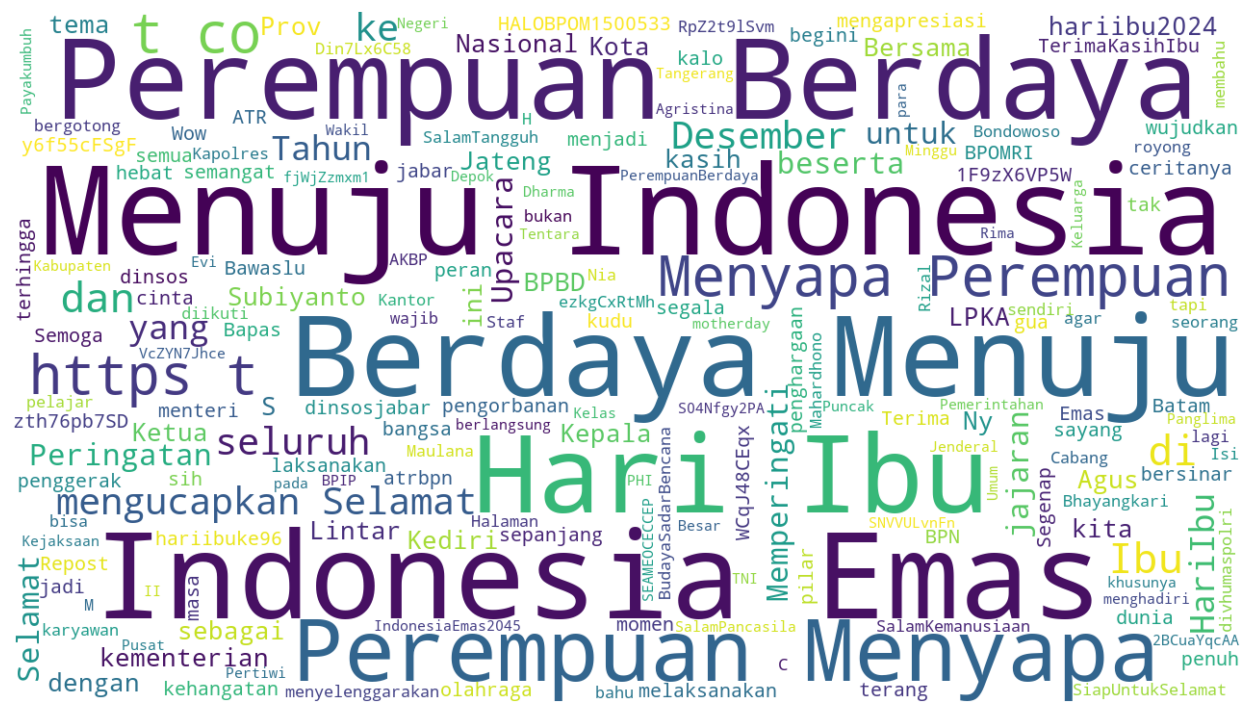
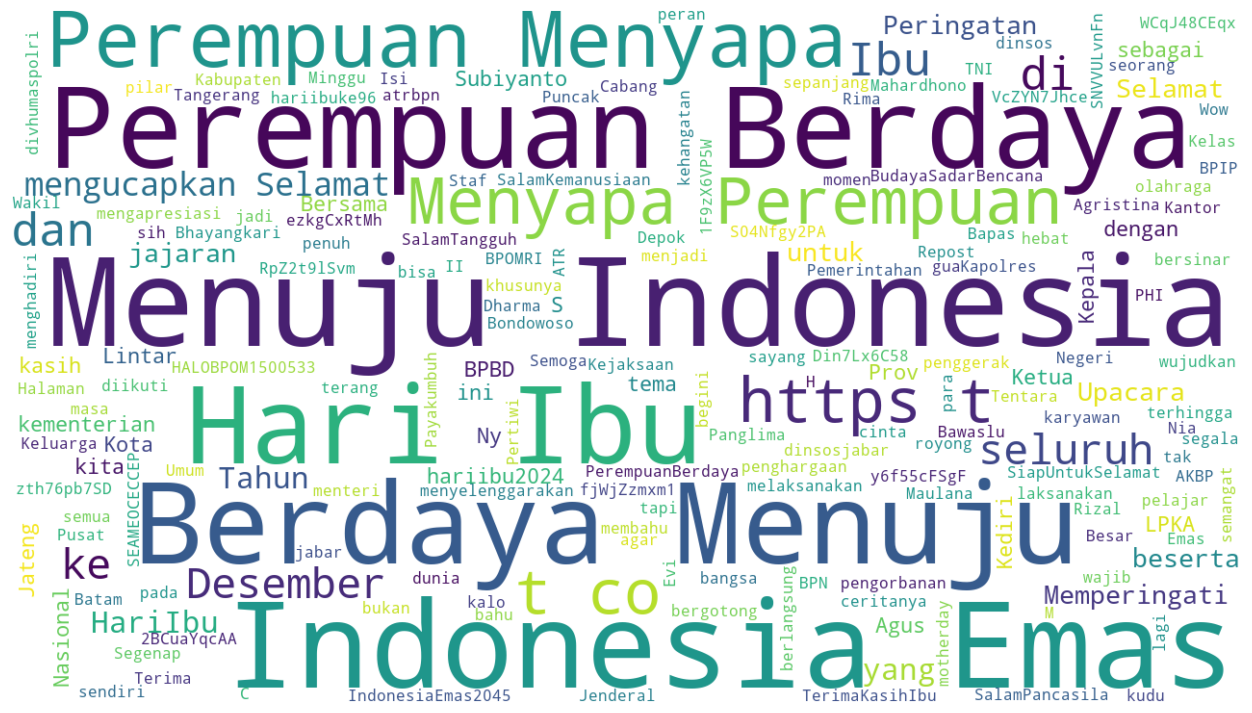
clean and normalized data

diff --git a/templates/12_normalized_dataset.html b/templates/12_normalized_dataset.html
@@ -1,14 +1,12 @@
-{% extends 'base.html' %}
-{% block content %}
+{% extends 'base.html' %} {% block content %}
 <div class="container-xxl flex-grow-1 container-p-y">
 	<div class="fw-bold mb-4">
 		<span class="text-muted fw-light">DataCraft / </span>
-		<span class="text-muted fw-light">Pra-Pemrosesan Data / </span>
+		<span class="text-muted fw-light">Eksplorasi Data / </span>
 		<span class="color-custom-secondary">{{ title }}</span>
 	</div>
-	{% with messages = get_flashed_messages(with_categories=true) %}
-  {% if messages %}
-  {% for category, message in messages %}
+	{% with messages = get_flashed_messages(with_categories=true) %} {% if
+	messages %} {% for category, message in messages %}
 	<div
 		class="alert alert-{{ category }} alert-dismissible fade show"
 		role="alert">
@@ -19,9 +17,7 @@
 			data-bs-dismiss="alert"
 			aria-label="Close"></button>
 	</div>
-	{% endfor %}
-  {% endif %}
-  {% endwith %}
+	{% endfor %} {% endif %} {% endwith %}
 	<div class="row">
 		<div class="col-12 mb-4 order-0">
 			<!-- Informasi Dataset -->
@@ -31,8 +27,6 @@
 					<ul>
 						<li><strong>Nama File:</strong> {{ selected_file }}</li>
 						<li><strong>Dimensi Dataset:</strong> {{ data_shape }}</li>
-						<li><strong>Jumlah Duplikat:</strong> {{ duplicate_count }}</li>
-						<li><strong>Jumlah Nilai Kosong:</strong> {{ null_count }}</li>
 					</ul>
 				</div>
 			</div>
@@ -46,16 +40,18 @@
 			<div class="card mb-4">
 				<h5 class="card-header">Statistik Deskriptif</h5>
 				<div class="card-body">
-					<div class="table-responsive">{{ data_description | safe }}</div>
+					<div class="table table-responsive">
+						{{ data_description | safe }}
+					</div>
 				</div>
 			</div>
 			<!-- Visualisasi -->
 			<div class="card mb-4">
-				<h5 class="card-header">Distribusi Panjang Cleaned Tweet</h5>
+				<h5 class="card-header">Distribusi Panjang Normalisasi Tweet</h5>
 				<div class="card-body">
 					<img
 						src="{{ chart_path }}"
-						alt="Distribusi Panjang Cleaned Tweet"
+						alt="Distribusi Panjang Normalisasi Tweet"
 						class="img-fluid"
 						draggable="false" />
 				</div>
@@ -65,12 +61,12 @@
 				<div class="card-body">
 					<img
 						src="{{ wordcloud_path }}"
-						alt="WordCloud Cleaned Tweet"
+						alt="WordCloud"
 						class="img-fluid"
 						draggable="false" />
 				</div>
 			</div>
-			<!-- Tombol Navigasi -->
+			<!-- Download dan Navigasi -->
 			<div class="card">
 				<div class="card-body">
 					<div class="d-flex justify-content-between align-items-center">
@@ -82,19 +78,16 @@
 								&nbsp; Buat Dataset
 							</a>
 						</div>
-						<div>
+						<div class="">
 							<a
 								href="{{ download_link }}"
-								class="btn btn-success btn-sm"
-								download>
-								<i class="bx bx-download"></i>
-								&nbsp; Unduh Data
+								class="btn btn-success btn-sm">
+								<i class="bx bx-download"></i>&nbsp; Unduh Data
 							</a>
 							<a
-								href="{{ url_for('normalize_dataset') }}"
-								class="btn btn-primary btn-sm">
-								<i class="bx bx-cog"></i>
-								&nbsp; Normalisasi Data
+								href="{{ url_for('details_dataset') }}"
+								class="btn btn-warning btn-sm">
+								<i class="bx bx-arrow-back"></i>&nbsp; Kembali ke Detail Dataset
 							</a>
 						</div>
 					</div>

diff --git a/templates/partials/sidebar.html b/templates/partials/sidebar.html
@@ -65,7 +65,7 @@
 			</ul>
 		</li>
 		<!-- Pra-Pemrosesan -->
-		<li class="menu-item {% if url_for('pra_pemrosesan') in request.path or url_for('clean_dataset') in request.path %}active open{% endif %}">
+		<li class="menu-item {% if url_for('clean_dataset') in request.path or url_for('normalize_dataset') in request.path %}active open{% endif %}">
 			<a href="javascript:void(0);" class="menu-link menu-toggle">
 				<i class="menu-icon tf-icons bx bx-wrench"></i>
 				<div data-i18n="Pra-Pemrosesan">Pra-Pemrosesan</div>
@@ -77,8 +77,8 @@
 						<div data-i18n="Pembersihdan Data">Pembersihdan Data</div>
 					</a>
 				</li>
-				<li class="menu-item {% if request.path == url_for('pra_pemrosesan') %}active{% endif %}">
-					<a href="{{ url_for('pra_pemrosesan') }}" class="menu-link">
+				<li class="menu-item {% if request.path == url_for('normalize_dataset') %}active{% endif %}">
+					<a href="{{ url_for('normalize_dataset') }}" class="menu-link">
 						<div data-i18n="Normalisasi Data">Normalisasi Data</div>
 					</a>
 				</li>

diff --git a/app.py b/app.py
@@ -105,7 +105,7 @@ def create_dataset():
         safe_keyword = re.sub(r'[^\w\s]', '_', keyword)  # Ganti karakter khusus jadi '_'
         safe_keyword = re.sub(r'\s+', '_', safe_keyword.strip())  # Hilangkan spasi berlebih
         timestamp = datetime.now().strftime("%Y%m%d%H%M%S")
-        filename = f"{safe_keyword}_{timestamp}.csv"
+        filename = f"dataset_0_{safe_keyword}_{timestamp}.csv"
         file_path = os.path.join(save_dir, filename)
 
         # Pindah ke direktori kerja
@@ -141,20 +141,22 @@ def create_dataset():
 # Route untuk mengunduh file yang sudah dibuat
 @app.route('/download/<filename>')
 def download_file(filename):
-    if url_for('create_dataset'):
-        try:
-            download_dir = os.path.join(os.getcwd(), "data", "tweets-data")
-            return send_from_directory(download_dir, filename, as_attachment=True)
-        except Exception as e:
-            flash("Gagal mengunduh file.", "error")
-            return redirect(url_for('create_dataset'))
-    elif url_for('clean_dataset'):
-        try:
-            download_dir = os.path.join(os.getcwd(), "data", "processed")
-            return send_from_directory(download_dir, filename, as_attachment=True)
-        except Exception as e:
-            flash("Gagal mengunduh file.", "error")
-            return redirect(url_for('clean_dataset'))
+    # Tentukan direktori berdasarkan nama file
+    if filename.startswith("dataset_0"):
+        download_dir = os.path.join(os.getcwd(), "data", "tweets-data")
+    elif filename.startswith("dataset_1"):
+        download_dir = os.path.join(os.getcwd(), "data", "processed")
+    elif filename.startswith("dataset_2"):
+        download_dir = os.path.join(os.getcwd(), "data", "processed")
+    else:
+        flash("File tidak valid untuk diunduh.", "error")
+        return redirect(url_for('clean_dataset'))
+
+    try:
+        return send_from_directory(download_dir, filename, as_attachment=True)
+    except Exception as e:
+        flash("Gagal mengunduh file.", "error")
+        return redirect(request.referrer)
 
 # Route untuk halaman Unggah Dataset
 @app.route('/upload-dataset', methods=['GET', 'POST'])
@@ -263,7 +265,7 @@ def details_dataset():
         buffer = io.StringIO()
         data.info(buf=buffer)
         data_info = buffer.getvalue()
-        data_description = data.describe().to_html(classes='table table-striped')
+        data_description = data.describe().round(2).to_html(classes='table table-striped')
         data_shape = data.shape  # Dimensi dataset
         # Jumlah nilai unik
         data_unique = pd.DataFrame(data.nunique(), columns=['Unique Values']).reset_index()
@@ -382,6 +384,16 @@ def clean_dataset():
             return render_template('11_cleaned_dataset.html', title="Pembersihan Data")
 
         # Terapkan pembersihan
+        def clean_comment(text):
+            text = str(text)  # Konversi ke string
+            text = remove_emoji(text)  # Hapus emoji
+            text = remove_links(text)  # Hapus tautan
+            text = remove_html_tags_and_entities(text)  # Hapus tag HTML dan entitas
+            text = remove_special_characters(text)  # Hapus simbol
+            text = text.strip()  # Hapus spasi berlebih
+            return text.lower()  # Ubah ke huruf kecil
+
+        # Terapkan fungsi pembersihan
         data['Cleaned_Tweet'] = data['Tweet'].apply(clean_comment)
 
         # Hapus duplikat dan nilai kosong
@@ -391,24 +403,35 @@ def clean_dataset():
         # Hapus teks dengan panjang <= 3 huruf
         data = data[data['Cleaned_Tweet'].str.len() > 3]
 
+        # Hitung jumlah kata dari Cleaned_Tweet
+        data['Cleaned_Length'] = data['Cleaned_Tweet'].apply(lambda x: len(x.split()))
+
         # Simpan dataset yang telah dibersihkan
         data.to_csv(output_path, index=False)
-
-        # Informasi dataset
-        data_head = data.head().to_html(classes='table table-striped', index=False)
-        data_description = data.describe().to_html(classes='table table-striped')
+        
+        data_head = data[['Tweet', 'Cleaned_Tweet']].head().to_html(classes='table table-striped', index=False)
+        data_description = data.describe().round(2).to_html(classes='table table-striped')
         data_shape = data.shape
         duplicate_count = data.duplicated().sum()
         null_count = data.isnull().sum().sum()
 
+        # Distribusi panjang Cleaned_Tweet
+        chart_path = os.path.join('static', 'img', 'tweet_1_length_distribution_cleaned.png')
+        plt.figure(figsize=(16, 9))
+        data['Cleaned_Length'].plot(kind='hist', bins=30, color='blue', edgecolor='black', title='Distribusi Panjang Cleaned Tweet')
+        plt.xlabel('Jumlah Kata')
+        plt.ylabel('Frekuensi')
+        plt.savefig(chart_path, bbox_inches='tight', facecolor='white')
+        plt.close()
+
         # Tampilkan WordCloud
         wordcloud_path = os.path.join('static', 'img', 'tweet_1_wordcloud_cleaned.png')
         text = ' '.join(data['Cleaned_Tweet'].dropna())
-        wordcloud = WordCloud(width=800, height=400, background_color='white').generate(text)
-        plt.figure(figsize=(10, 6))
+        wordcloud = WordCloud(width=1280, height=720, background_color='white').generate(text)
+        plt.figure(figsize=(16, 9))
         plt.imshow(wordcloud, interpolation='bilinear')
         plt.axis('off')
-        plt.savefig(wordcloud_path)
+        plt.savefig(wordcloud_path, bbox_inches='tight', facecolor='white')
         plt.close()
 
         return render_template(
@@ -419,15 +442,95 @@ def clean_dataset():
             data_shape=data_shape,
             duplicate_count=duplicate_count,
             null_count=null_count,
+            chart_path=chart_path,
             wordcloud_path=wordcloud_path,
             file_details=uploaded_files_list,
             selected_file=selected_file,
-            download_link=url_for('download_file', output_file=output_file),
+            download_link=url_for('download_file', filename=output_file)
         )
 
     except Exception as e:
         flash(f"Terjadi kesalahan: {e}", "error")
         return render_template('11_cleaned_dataset.html', file_details=uploaded_files_list, title="Pembersihan Data")
+
+@app.route('/normalize-dataset', methods=['GET', 'POST'])
+def normalize_dataset():
+    try:
+        # Ambil daftar file di direktori processed
+        processed_files_list = os.listdir(os.path.join(os.getcwd(), 'data', 'processed'))
+        processed_files_list = [f for f in processed_files_list if allowed_file(f)]
+
+        selected_file = 'dataset_1_cleaned.csv'
+        input_path = os.path.join(os.getcwd(), 'data', 'processed', selected_file)
+        output_file = "dataset_2_normalized.csv"
+        output_path = os.path.join(os.getcwd(), 'data', 'processed', output_file)
+
+        # Pastikan direktori processed ada
+        os.makedirs(os.path.dirname(output_path), exist_ok=True)
+
+        # Membaca dataset
+        data = pd.read_csv(input_path)
+
+        # Pastikan kolom 'Cleaned_Tweet' ada
+        if 'Cleaned_Tweet' not in data.columns:
+            flash("Kolom 'Cleaned_Tweet' tidak ditemukan dalam dataset.", "error")
+            return render_template('12_normalized_dataset.html', file_details=processed_files_list, title="Normalisasi Data")
+
+        # Normalisasi Data
+        def normalize_text(text):
+            text = text.lower()  # Konversi ke huruf kecil
+            text = re.sub(r'[^\w\s]', '', text)  # Hapus tanda baca
+            text = re.sub(r'\s+', ' ', text).strip()  # Hapus spasi berlebih
+            return text
+
+        data['Normalized_Tweet'] = data['Cleaned_Tweet'].apply(normalize_text)
+
+        # Hitung jumlah kata dari Cleaned_Tweet
+        data['Normalized_Length'] = data['Normalized_Tweet'].apply(lambda x: len(x.split()))
+
+        # Simpan dataset yang telah dinormalisasi
+        data.to_csv(output_path, index=False)
+
+        # Informasi dataset
+        data_head = data[['Cleaned_Tweet', 'Normalized_Tweet']].head().to_html(classes='table table-striped', index=False)
+        data_description = data.describe().to_html(classes='table table-striped')
+        data_shape = data.shape
+
+        # Distribusi panjang Normalized_Tweet
+        chart_path = os.path.join('static', 'img', 'tweet_2_length_distribution_cleaned.png')
+        plt.figure(figsize=(16, 9))
+        data['Normalized_Length'].plot(kind='hist', bins=30, color='blue', edgecolor='black', title='Distribusi Panjang Normalized Tweet')
+        plt.xlabel('Jumlah Kata')
+        plt.ylabel('Frekuensi')
+        plt.savefig(chart_path, bbox_inches='tight', facecolor='white')
+        plt.close()
+
+        # Tampilkan WordCloud
+        wordcloud_path = os.path.join('static', 'img', 'tweet_2_wordcloud_normalized.png')
+        text = ' '.join(data['Normalized_Tweet'].dropna())
+        wordcloud = WordCloud(width=1280, height=720, background_color='white').generate(text)
+        plt.figure(figsize=(16, 9))
+        plt.imshow(wordcloud, interpolation='bilinear')
+        plt.axis('off')
+        plt.savefig(wordcloud_path, bbox_inches='tight', facecolor='white')
+        plt.close()
+
+        return render_template(
+            '12_normalized_dataset.html',
+            title="Normalisasi Data",
+            data_head=data_head,
+            data_description=data_description,
+            data_shape=data_shape,
+            file_details=processed_files_list,
+            selected_file=selected_file,
+            download_link=url_for('download_file', filename=output_file),
+            chart_path=chart_path,
+            wordcloud_path=wordcloud_path
+        )
+
+    except Exception as e:
+        flash(f"Terjadi kesalahan: {e}", "error")
+        return render_template('12_normalized_dataset.html', file_details=processed_files_list, title="Normalisasi Data")
 
 @app.route('/pra-pemrosesan')
 def pra_pemrosesan():
